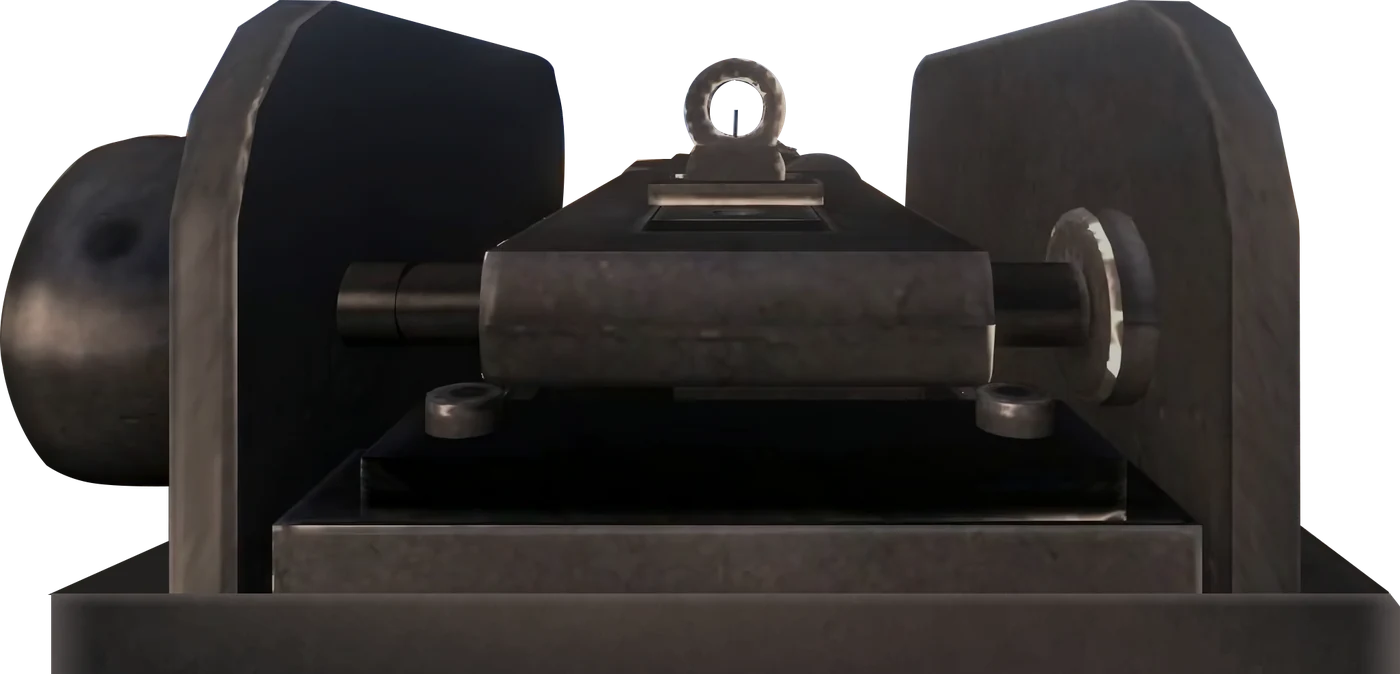
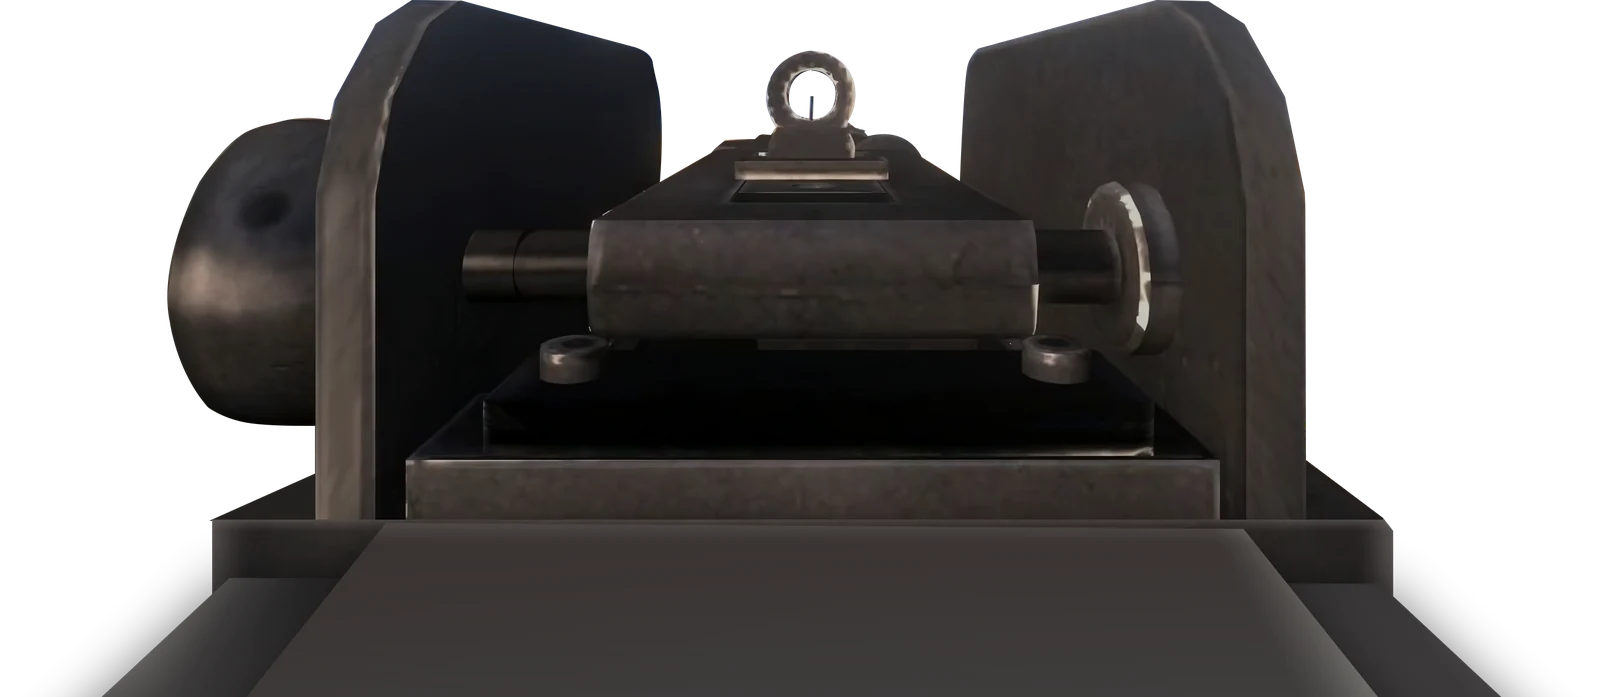
Drone defense: new M2 image with mount, ammo can on the left, heat bar moved to top-left

diff --git a/src/App.css b/src/App.css
@@ -313,13 +313,15 @@ html, body, #root, .app { width: 100%; height: 100%; overflow: hidden; font-fami
   30% { transform: translate(-50%, -80%) scale(1); }
   100% { transform: translate(-50%, -260%) scale(1); opacity: 0; }
 }
-.m2-wrap { position: absolute; left: 50%; bottom: 0; width: min(48vw, 86vh); transform: translateX(-50%); transform-origin: 50% 100%; }
+.m2-wrap { position: absolute; left: 50%; bottom: 0; width: min(62.6vw, 112vh); transform: translateX(-50%); transform-origin: 50% 100%; }
 .m2-gun { position: relative; z-index: 1; display: block; width: 100%; filter: drop-shadow(0 -6px 18px rgba(0,0,0,.35)); }
-.m2-flash { position: absolute; z-index: 0; left: 52.5%; top: -4.5%; width: 42%; height: auto; opacity: 0; pointer-events: none; }
+/* .50 cal ammo can on the gun's left, behind the receiver */
+.m2-box { position: absolute; z-index: 0; left: -41.39%; top: 28.02%; width: 64.29%; height: auto; pointer-events: none; }
+.m2-flash { position: absolute; z-index: 0; left: 50.68%; top: -3.81%; width: 32.18%; height: auto; opacity: 0; pointer-events: none; }
 /* .50 BMG case (bullet50.png, neck up) ejected from behind the gun's right side */
-.m2-case { position: absolute; z-index: 0; left: 86.65%; top: -9.45%; width: 5.5%; height: auto; aspect-ratio: 57 / 254; pointer-events: none;
+.m2-case { position: absolute; z-index: 0; left: 76.85%; top: -8%; width: 4.21%; height: auto; aspect-ratio: 57 / 254; pointer-events: none;
   filter: drop-shadow(0 3px 4px #0009); }
-.drone-heat { position: absolute; left: 3%; bottom: 6%; display: flex; align-items: center; gap: 10px; font: 800 13px Arial, sans-serif; letter-spacing: 2px; color: #fff; text-shadow: 0 1px 3px #000;
+.drone-heat { position: absolute; left: 3%; top: 4%; display: flex; align-items: center; gap: 10px; font: 800 13px Arial, sans-serif; letter-spacing: 2px; color: #fff; text-shadow: 0 1px 3px #000;
   background: rgba(10,12,14,.55); border: 1px solid rgba(255,255,255,.25); padding: 8px 12px; border-radius: 4px; }
 .drone-heat i { display: block; width: 180px; height: 10px; background: rgba(255,255,255,.15); border-radius: 2px; overflow: hidden; }
 .drone-heat b { display: block; height: 100%; width: 0; }

diff --git a/src/Game.jsx b/src/Game.jsx
@@ -347,6 +347,7 @@ export default function Game({ onEnd, onExit, resumeCount, inactive, map, settin
       <div ref={droneSightRef} className="drone-sight" hidden aria-hidden="true">
         <div ref={m2Ref} className="m2-wrap">
           <img ref={m2FlashRef} className="m2-flash" src={import.meta.env.BASE_URL + 'assets/muzzleflash.webp'} alt="" />
+          <img className="m2-box" src={import.meta.env.BASE_URL + 'assets/gbox.webp'} alt="" />
           <img className="m2-gun" src={import.meta.env.BASE_URL + 'assets/m2-2.webp'} alt="" />
         </div>
         <div className="drone-heat"><span>M2 HEAT</span><i><b ref={droneHeatRef} /></i><em ref={droneHeatLabelRef}>READY</em></div>
